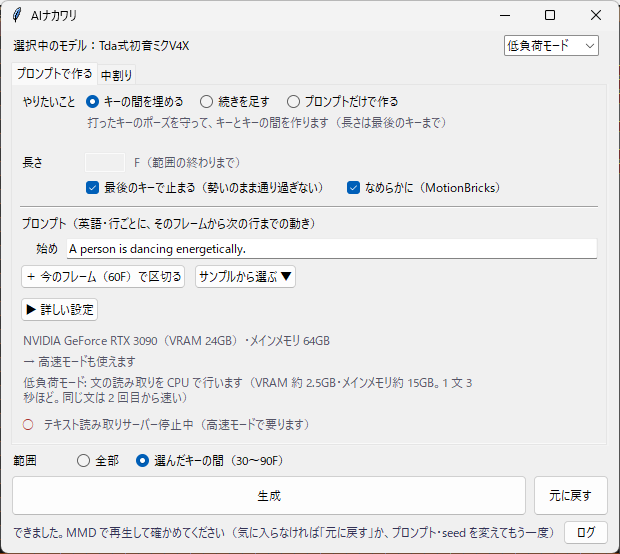
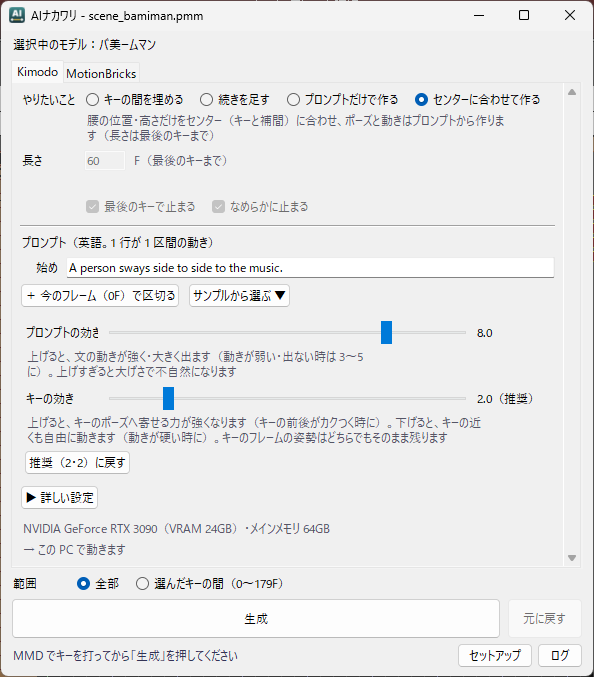
効きをスライダにし、床に埋まったキーを知らせ、ボタンのマウスオーバーが消えるのを直す
- プロンプトの効き・キーの効きを 0.5〜10・0.5 刻みのスライダにして、「詳しい設定」から
  プロンプトのすぐ下へ出した。推奨（2・2）に戻すボタンと使い分けの説明を付けた
- 足の裏がほかのキー（中央値）より 5cm 以上低いキーがあると、ログで知らせる。
  床は一番低い足で決めるままにして、間のフレームが沈む理由を分かるようにした
- 詳細の窓の 0.5 秒ごとの更新で state を同じ値に設定し直していて、マウスオーバーの印が
  消えていた。変わった時だけ設定する set_enabled を通した
- README の窓の画像を撮り直した

diff --git a/mmd_ainakawari/app.py b/mmd_ainakawari/app.py
@@ -30,7 +30,7 @@ from .message_window import MessageWindow, register_message
 from . import vmd
 from .mmd_link import MMDLink
 from .mmd_skel import MMDSkeleton
-from .widgets import Fold, PromptRows, ScrollFrame
+from .widgets import Fold, PromptRows, ScrollFrame, set_enabled
 
 APP_MUTEX = "Local\\AINakawari.App.v1"
 HUB_CLASS = "AINakawari.Hub"           # プラグインと 2 回目の起動が探す目印（nakawari_plugin.cpp と同じ）
@@ -42,10 +42,12 @@ _set_window_long = ctypes.windll.user32.SetWindowLongPtrW
 _set_window_long.argtypes = [ctypes.c_void_p, ctypes.c_int, ctypes.c_void_p]
 _set_window_long.restype = ctypes.c_void_p
 SETTINGS_PATH = os.path.join(runner.WORK_DIR, "settings.json")
+CFG_DEFAULT = 2.0             # プロンプトの効き・キーの効きの推奨（Kimodo の既定）。「推奨に戻す」もこの値
+CFG_RANGE = (0.5, 10.0, 0.5)  # スライダの下限・上限・刻み
 DEFAULTS = {
     "tab": "kimodo", "mode": "fill", "range_mode": "keys", "length": "",   # 範囲は選んだキーの間から（11-05 マスター）
     "prompt": "A person moves naturally between poses.",
-    "steps": 100, "seed": -1, "post_processing": True, "cfg_text": 2.0, "cfg_key": 2.0,
+    "steps": 100, "seed": -1, "post_processing": True, "cfg_text": CFG_DEFAULT, "cfg_key": CFG_DEFAULT,
     "stop_at_last_key": True, "smooth_stop": True, "key_stop": False, "wrist_lerp": False,
 }
 # 前の窓の保存にあった項目（読む時に変換して捨てる。perf_mode は 11-07 まであった動作モード・use_center は 11-07 までのチェック）
@@ -349,24 +351,37 @@ class App:
         sample_button.configure(command=lambda: self._show_samples(sample_button))
         sample_button.pack(side="left", padx=(8, 0))
 
+        # Kimodo の CFG の重み。数字を打つのは面倒なのでスライダ（11-08 マスター）。範囲は前の欄と同じ 0.5〜10・0.5 刻み
+        # よく触るので「詳しい設定」には畳まず、プロンプトのすぐ下に出す（11-08 マスター）
+        # テキストを上げるとプロンプトの動きが強く出る（回転なら 8・1 で振り向くほど）
+        strength = ttk.Frame(t)
+        strength.pack(fill="x", pady=(8, 0))
+        strength.columnconfigure(1, weight=1)
+        self.cfg_text = tk.DoubleVar(value=self.cfg["cfg_text"])
+        self.cfg_key = tk.DoubleVar(value=self.cfg["cfg_key"])
+        self._cfg_slider(strength, 0, "プロンプトの効き", self.cfg_text,
+                         "上げると、文の動きが強く・大きく出ます（動きが弱い・出ない時は 3〜5 に）。上げすぎると大げさで不自然になります")
+        self._cfg_slider(strength, 2, "キーの効き", self.cfg_key,
+                         "上げると、キーのポーズへ寄せる力が強くなります（キーの前後がカクつく時に）。"
+                         "下げると、キーの近くも自由に動きます（動きが硬い時に）。キーのフレームの姿勢はどちらでもそのまま残ります")
+        ttk.Button(strength, text=f"推奨（{CFG_DEFAULT:g}・{CFG_DEFAULT:g}）に戻す",
+                   command=lambda: (self.cfg_text.set(CFG_DEFAULT), self.cfg_key.set(CFG_DEFAULT))).grid(
+            row=4, column=0, columnspan=3, sticky="w", padx=4, pady=2)
+
         details = Fold(t, "詳しい設定")
         details.pack(fill="x", pady=(8, 0))
         d, g = details.body, {"padx": 4, "pady": 2}
-        ttk.Label(d, text="計算の回数（少ないほど速い）").grid(row=0, column=0, sticky="w", **g)
+        d.columnconfigure(1, weight=1)
+        top = ttk.Frame(d)
+        top.grid(row=0, column=0, columnspan=3, sticky="w", **g)
+        ttk.Label(top, text="計算の回数（少ないほど速い）").pack(side="left")
         self.steps = tk.IntVar(value=self.cfg["steps"])
-        ttk.Spinbox(d, from_=10, to=100, increment=10, textvariable=self.steps, width=6).grid(row=0, column=1, sticky="w", **g)
-        ttk.Label(d, text="seed（-1 で毎回違う動き）").grid(row=1, column=0, sticky="w", **g)
+        ttk.Spinbox(top, from_=10, to=100, increment=10, textvariable=self.steps, width=6).pack(side="left", padx=(4, 16))
+        ttk.Label(top, text="seed（-1 で毎回違う動き）").pack(side="left")
         self.seed = tk.IntVar(value=self.cfg["seed"])
-        ttk.Entry(d, textvariable=self.seed, width=8).grid(row=1, column=1, sticky="w", **g)
-        # Kimodo の CFG の重み。テキストを上げるとプロンプトの動きが強く出る（回転なら 8・1 で振り向くほど）
-        ttk.Label(d, text="プロンプトの効き").grid(row=0, column=2, sticky="e", **g)
-        self.cfg_text = tk.DoubleVar(value=self.cfg["cfg_text"])
-        ttk.Spinbox(d, from_=0.5, to=10, increment=0.5, textvariable=self.cfg_text, width=5).grid(row=0, column=3, sticky="w", **g)
-        ttk.Label(d, text="キーの効き").grid(row=1, column=2, sticky="e", **g)
-        self.cfg_key = tk.DoubleVar(value=self.cfg["cfg_key"])
-        ttk.Spinbox(d, from_=0.5, to=10, increment=0.5, textvariable=self.cfg_key, width=5).grid(row=1, column=3, sticky="w", **g)
+        ttk.Entry(top, textvariable=self.seed, width=8).pack(side="left", padx=(4, 0))
         self.post = tk.BooleanVar(value=self.cfg["post_processing"])
-        ttk.Checkbutton(d, text="仕上補正（足すべり・姿勢）", variable=self.post).grid(row=2, column=0, columnspan=2, sticky="w", **g)
+        ttk.Checkbutton(d, text="仕上補正（足すべり・姿勢）", variable=self.post).grid(row=1, column=0, columnspan=3, sticky="w", **g)
         # GPU 診断（この PC で足りるか）
         d = self.diagnosis
         bg = ttk.Style().lookup("TFrame", "background")
@@ -375,6 +390,31 @@ class App:
         # 足りない・GPU が無い時は赤で目立たせる（普段の説明と同じ灰色だと読み飛ばす）
         tk.Label(t, text=("→ " if d.gpu else "") + d.note, foreground="#556" if d.ok else "#c22", background=bg,
                  wraplength=500, anchor="w", justify="left").pack(fill="x", pady=(0 if d.gpu else 8, 0))
+
+    def _cfg_slider(self, d, row, title, var, note):
+        """効きのスライダ 1 本（名前・スライダ・今の値）と、その下の説明。値は CFG_RANGE の刻みにそろえる。"""
+        low, high, step = CFG_RANGE
+        shown = tk.StringVar()
+
+        def snap(*_):
+            try:
+                v = float(var.get())
+            except (tk.TclError, ValueError):   # 前の保存が数字でないなど。推奨に戻す
+                v = CFG_DEFAULT
+            s = min(high, max(low, round(v / step) * step))
+            if s != v:
+                # trace の中で同じ変数に書いても、Tcl は trace をもう一度呼ばない。なのでここで return すると、
+                # 刻みに合わない値（ドラッグ中はほぼ全部）で右の数字が変わらなかった（11-08 マスター）
+                var.set(s)
+            shown.set(f"{s:.1f}" + ("（推奨）" if s == CFG_DEFAULT else ""))
+
+        ttk.Label(d, text=title, width=12).grid(row=row, column=0, sticky="w", padx=4, pady=(4, 0))
+        ttk.Scale(d, from_=low, to=high, orient="horizontal", variable=var).grid(row=row, column=1, sticky="ew", padx=4, pady=(4, 0))
+        ttk.Label(d, textvariable=shown, width=12).grid(row=row, column=2, sticky="w", padx=4, pady=(4, 0))
+        tk.Label(d, text=note, foreground="#556", background=ttk.Style().lookup("TFrame", "background"),
+                 wraplength=460, anchor="w", justify="left").grid(row=row + 1, column=0, columnspan=3, sticky="w", padx=4)
+        var.trace_add("write", snap)
+        snap()
 
     def _build_nakawari(self, t):
         """「MotionBricks」タブ（プロンプト無しの中割り）。"""
@@ -397,7 +437,7 @@ class App:
         """入っている物（Kimodo・MotionBricks）に合わせて、窓の部品と状態の 1 行を出し直す。作った時と、セットアップが済んだ時に呼ぶ。"""
         mb = smooth_stop.available()
         for check in self.nakawari_checks:
-            check.configure(state="normal" if mb else "disabled")
+            set_enabled(check, mb)
         if mb:
             self.nakawari_missing.pack_forget()
         else:
@@ -421,24 +461,24 @@ class App:
         mode = self.mode.get()
         self.mode_note.set(MODE_NOTES[mode])
         if mode == "extend":   # 足す長さ。範囲を選んでいても使う（前は範囲の時に欄が効かず、埋めると同じになっていた。11-07 マスター）
-            self.length_entry.configure(state="normal")
+            set_enabled(self.length_entry, True)
         elif self.range_mode.get() == "keys":
-            self.length_entry.configure(state="disabled")
+            set_enabled(self.length_entry, False)
             self.length_note.set("F（範囲の終わりまで）")
         elif mode in ("fill", "center"):   # センターに合わせて作るのも、埋めると同じ範囲
-            self.length_entry.configure(state="disabled")
+            set_enabled(self.length_entry, False)
             self.length_note.set("F（最後のキーまで）")
         else:
-            self.length_entry.configure(state="normal")
+            set_enabled(self.length_entry, True)
             self.length_note.set("F（最初のキーから数えた全部の長さ。必須）")
         # 止める位置のキーが無い: プロンプトだけで作る時・続きを足す時（続きの終わりにキーは無い）
-        self.stop_check.configure(state="normal" if mode == "fill" else "disabled")
+        set_enabled(self.stop_check, mode == "fill")
         self._stop_changed()
         self._extend_changed()
 
     def _stop_changed(self):
         usable = self.mode.get() == "fill" and self.stop.get() and smooth_stop.available()
-        self.smooth_check.configure(state="normal" if usable else "disabled")
+        set_enabled(self.smooth_check, usable)
 
     def _body_of(self, pmx):
         """モデルの書き戻す骨（VMD の名前）。PMX ごとに 1 回だけ読む。読めない（Kimodo が無い・PMX でない）時は None。"""
@@ -600,8 +640,12 @@ class App:
         elif not block and self._status_before is not None:
             self.status.set(self._status_before)
             self._status_before = None
-        self.gen_btn.configure(state="disabled" if self.busy or block else "normal")
-        self.undo_btn.configure(state="normal" if (self.last_backup and not self.busy) else "disabled")
+        # 変わった時だけ設定する（毎回設定し直すと、マウスオーバーが 0.5 秒で消えていた。widgets.set_enabled）
+        if set_enabled(self.gen_btn, not (self.busy or block)):
+            # 押しても反応しないことがある（11-08 マスター）。一瞬だけ押せなくなっていたのか、後から記録で分かるように残す
+            applog.write("「生成」を押せるようにしました" if not (self.busy or block)
+                         else f"「生成」を押せなくしました（{'生成中' if self.busy else block}）")
+        set_enabled(self.undo_btn, bool(self.last_backup and not self.busy))
         self._sync_panel()
 
     # ---------------- MMD の右下のパネル ----------------
@@ -783,7 +827,7 @@ class App:
             messagebox.showerror("AIナカワリ", str(e), parent=self.root)
             return
         except tk.TclError:   # 数字の欄（計算の回数・seed・効き）に数字でないものが入っている
-            messagebox.showerror("AIナカワリ", "「詳しい設定」の計算の回数・seed・効きには数字を入れてください", parent=self.root)
+            messagebox.showerror("AIナカワリ", "「詳しい設定」の計算の回数・seed には数字を入れてください", parent=self.root)
             return
         self._write_log("―" * 20)
         self.status.set("生成中…")

diff --git a/mmd_ainakawari/pipeline.py b/mmd_ainakawari/pipeline.py
@@ -27,6 +27,9 @@ KIMODO_NAME = "Kimodo"
 MAX_FRAMES = 300  # Kimodo の 1 区間は 10 秒（30fps）まで（公式の limitations.md）。区間を分ければ全体はこれより長くてよい
 STOP_HOLD = 10    # 「最後のキーで止まる」で、キーの後ろに腰を止めておくフレーム数
 RANGE_CONTEXT = 3  # 範囲を作り直す時に、範囲の端の外側から使う姿勢のフレーム数（外の動きの勢いをつなぐ。MotionBricks の文脈は 4 姿勢）
+# 足の裏がほかのキー（中央値）よりこれ以上低いキーは、床に沈んでいるかもしれないと知らせる（m）。床は一番低い足で決めるので、
+# そのぶん間のフレームが全部沈む（11-08、200F の左足ＩＫが床から 12cm 下で、0〜180F の腰が 15cm ほど沈んだ）
+SUNK_KEY = 0.05
 SPLIT_MOVE_TOLERANCE = 0.05   # 曲線を分けた後、範囲の外で元と違ってよい移動（MMD の単位）。超える部分は元の値のキーで埋める
 SPLIT_ANGLE_TOLERANCE = 0.5   # 同じく回転（度）
 PARALLEL_SECONDS = 10   # 書き戻しの計算の残りがこれ以上かかりそうなら、子プロセスに分けて並べる
@@ -50,6 +53,7 @@ class Job:
     ref_pos: np.ndarray = None    # 最初のキーの腰の XZ（Kimodo 座標・m）
     ref_yaw: float = 0.0          # 最初のキーの腰の向き（ラジアン）。Kimodo には +Z 向き・原点で渡す
     ground_lift: float = 0.0      # 足が床に着くように上げ下げした量（m）
+    sunk_keys: list = field(default_factory=list)     # 足の裏がほかのキーより SUNK_KEY 以上低いキー [(MMD のフレーム, 低さ m)]
     stop_frames: list = field(default_factory=list)   # 最後のキーで止まるために腰を止めておくフレーム（MMD のフレーム。範囲の外も含む）
     mmd_frames: set = field(default_factory=set)      # 書き戻さず MMD の補間のままにするフレーム（中割りで作れなかった間・範囲の外側の文脈）
     anchors: list = field(default_factory=list)       # 範囲を作り直す時に、MMD の姿勢をキーにした範囲の端のフレーム
@@ -337,7 +341,13 @@ def prepare(pmx, motion, prompt, steps=100, seed=-1, post_processing=True, frame
     job.ref_pos = np.array([hips0[0], 0.0, hips0[2]])
     job.ref_yaw = _yaw_of(loc0[0])
     # 一番低い足の裏が Kimodo の床（つま先の付け根 TOE_GROUND）に来るように上げ下げする
-    job.ground_lift = TOE_GROUND - min(rt.foot_clearance(*poses[f]) for f in (frames or [first]))
+    # 床は 1 枚なので、1 つだけ足が沈んだキー（床に埋まった足ＩＫ）があると、間のフレームが全部そこまで沈む。決め方は変えずに知らせる
+    # （中央値で決めると、階段を下りるような本当に高さの違うキーで、下の段のキーが床に埋まる。11-08 マスターと決めた）
+    clearance = {f: rt.foot_clearance(*poses[f]) for f in (frames or [first])}
+    job.ground_lift = TOE_GROUND - min(clearance.values())
+    # 中央値はマスターのキーと範囲の端で取る（範囲の外の文脈のフレームは、外のキーに近いと同じ低さで何個も並んで、中央値を引っ張る）
+    middle = float(np.median([c for f, c in clearance.items() if f not in set(context)] or list(clearance.values())))
+    job.sunk_keys = [(f, middle - c) for f, c in sorted(clearance.items()) if middle - c >= SUNK_KEY]
 
     to_canon = Q.from_axis_angle([0, 1, 0], -job.ref_yaw)
 

diff --git a/tests/check_sunk_key_1108.py b/tests/check_sunk_key_1108.py
@@ -1,0 +1,60 @@
+"""足が床に埋まったキーを知らせる（11-08 マスターと決めた案 B）を、作り物で確かめる。Kimodo は呼ばない（prepare まで）。
+
+    E:\\Projects\\mmd-mcp\\.venv\\Scripts\\python.exe -X utf8 tests\\check_sunk_key_1108.py
+
+床は「一番低いキーの足」で決めるので、1 つだけ足ＩＫが床に埋まったキーがあると、間のフレームが全部沈む
+（11-08、200F の左足ＩＫ Y -1.75 で、0〜180F の腰が 15cm ほど沈んだ）。決め方は変えず、job.sunk_keys で知らせる。
+デモのキー（30F おき）の 120F だけ左足ＩＫを下げて、そのキーだけが出るか・ふつうのキーでは出ないかを見る。
+"""
+import os
+import sys
+
+HERE = os.path.dirname(os.path.dirname(os.path.abspath(__file__)))
+sys.path.insert(0, HERE)
+sys.stdout.reconfigure(encoding="utf-8")
+
+from mmd_ainakawari import pipeline, vmd  # noqa: E402
+
+PMX = r"E:\oldC_0427\Users\beamman\Desktop\MikuMikuDance_v932x64\UserFile\Model\Tda式初音ミクV4X_Ver1.00\Tda式初音ミクV4X_Ver1.00.pmx"
+DEMO = os.path.join(HERE, "work", "demo", "demo_keys_20261106_023634.vmd")
+for p in (PMX, DEMO):
+    if not os.path.exists(p):
+        sys.exit(f"確かめに使う物がありません: {p}")
+results = []
+
+
+def check(name, ok, detail=""):
+    results.append(bool(ok))
+    print(f"{'OK ' if ok else 'NG '} {name}" + (f" … {detail}" if detail else ""))
+
+
+P = "A person dances."
+plain = pipeline.prepare(PMX, vmd.read(DEMO), P)
+check("ふつうのキーでは知らせない", plain.sunk_keys == [], f"{plain.sunk_keys}")
+
+# 足ＩＫだけ下げると脚が伸び切って 5cm ほどしか下がらないので、11-08 のキーと同じくセンターも一緒に下げる（左足が 14cm 床に埋まる）
+sunk = vmd.read(DEMO)
+for name in ("センター", "左足ＩＫ"):
+    hit = [k for k in sunk.bones if k.name == name and k.frame == 120]
+    if not hit:
+        sys.exit(f"デモのキーに 120F の{name}がありません")
+    hit[0].pos = hit[0].pos + [0.0, -1.75, 0.0]
+job = pipeline.prepare(PMX, sunk, P)
+frames = [f for f, _ in job.sunk_keys]
+check("埋めたキー（120F）だけを知らせる", frames == [120], f"{[(f, round(d * 100, 1)) for f, d in job.sunk_keys]}")
+check("低さはほかのキーとの差（10cm 以上）", job.sunk_keys and job.sunk_keys[0][1] >= 0.10)
+check("床の決め方は変えない（一番低い足が床）", job.ground_lift > plain.ground_lift + 0.10,
+      f"{plain.ground_lift * 100:.1f} → {job.ground_lift * 100:.1f}cm")
+
+# 範囲を作り直す時: 範囲の外の文脈のフレームで中央値が引っ張られないか（11-08、0〜200F で 15cm が 7cm と出た）
+inside = pipeline.prepare(PMX, sunk, P, frame_range=(60, 120))
+check("範囲の端が埋まったキーなら知らせる", 120 in [f for f, _ in inside.sunk_keys],
+      f"{[(f, round(d * 100, 1)) for f, d in inside.sunk_keys]}")
+d120 = dict(inside.sunk_keys).get(120, 0.0)
+check("範囲の時も低さは全部の時と同じくらい", abs(d120 - job.sunk_keys[0][1]) < 0.02,
+      f"{d120 * 100:.1f} / {job.sunk_keys[0][1] * 100:.1f}cm")
+outside = pipeline.prepare(PMX, sunk, P, frame_range=(150, 240))
+check("埋まったキーが範囲の外なら知らせない", outside.sunk_keys == [], f"{outside.sunk_keys}")
+
+print(f"\n{sum(results)}/{len(results)} OK")
+sys.exit(0 if all(results) else 1)

diff --git a/mmd_ainakawari/runner.py b/mmd_ainakawari/runner.py
@@ -222,6 +222,16 @@ def generate(settings, log=print, link=None, previous=None):
             + (f"（後ろ {outside} フレームは止まるために余分に作るだけで、書き戻さない）" if outside > 0 else ""))
     if job.limb_frames:
         log(f"手足の IK だけのキー {len(job.limb_frames)} 個: {job.limb_frames}（手足の位置だけ合わせ、体は任せる）")
+    if job.sunk_keys:
+        runs = []   # 続いたフレーム（範囲の外の文脈など）は 1 つにまとめる [始め, 終わり, 一番低い]
+        for f, d in job.sunk_keys:
+            if runs and f == runs[-1][1] + 1:
+                runs[-1][1], runs[-1][2] = f, max(runs[-1][2], d)
+            else:
+                runs.append([f, f, d])
+        shown = "・".join(f"{a}F（{d * 100:.0f}cm）" if a == b else f"{a}〜{b}F（{d * 100:.0f}cm）" for a, b, d in runs)
+        log(f"注意: 足の裏がほかのキーより低いキーがあります: {shown}。床は一番低い足で決めるので、"
+            f"ほかのフレームもそのぶん沈みます。足が床に埋まっていないか、足ＩＫの高さを確かめてください")
     for old, new, key in job.segment_moves:
         log(f"区間の始め {old}F の直後にキー（{key}F）があるので、区間の始めを {new}F にずらしました（キーで跳ばないように）")
     if not mb:

diff --git a/mmd_ainakawari/widgets.py b/mmd_ainakawari/widgets.py
@@ -6,6 +6,26 @@ from tkinter import ttk
 _SEGMENT = re.compile(r"\s*(\d+)\s*[:：]\s*(.*)")
 
 
+def set_enabled(widget, on):
+    """ttk の部品を押せる／押せなくする。今と同じなら何もしない。変えたら True。
+
+    ttk の部品は state を同じ値で設定し直すだけで、マウスオーバーの印（active）が消え、マウスが入り直すまで戻らない
+    （11-08 マスター。詳細の窓の 0.5 秒ごとの更新で「生成」の青いマウスオーバーが一瞬で消えていた。Tk 8.6.12 で確かめた）。
+    押せるように戻した時にマウスが上にあれば、印を付け直す。
+    """
+    state = "normal" if on else "disabled"
+    if str(widget.cget("state")) == state:
+        return False
+    widget.configure(state=state)
+    try:
+        under = widget.winfo_containing(*widget.winfo_pointerxy()) if on else None
+    except (KeyError, tk.TclError):   # マウスの下が tkinter の知らない部品（コンボボックスの一覧など）
+        under = None
+    if under is widget:
+        widget.state(["active"])
+    return True
+
+
 class PromptRows(ttk.Frame):
     """区間ごとのプロンプトの行。
 
